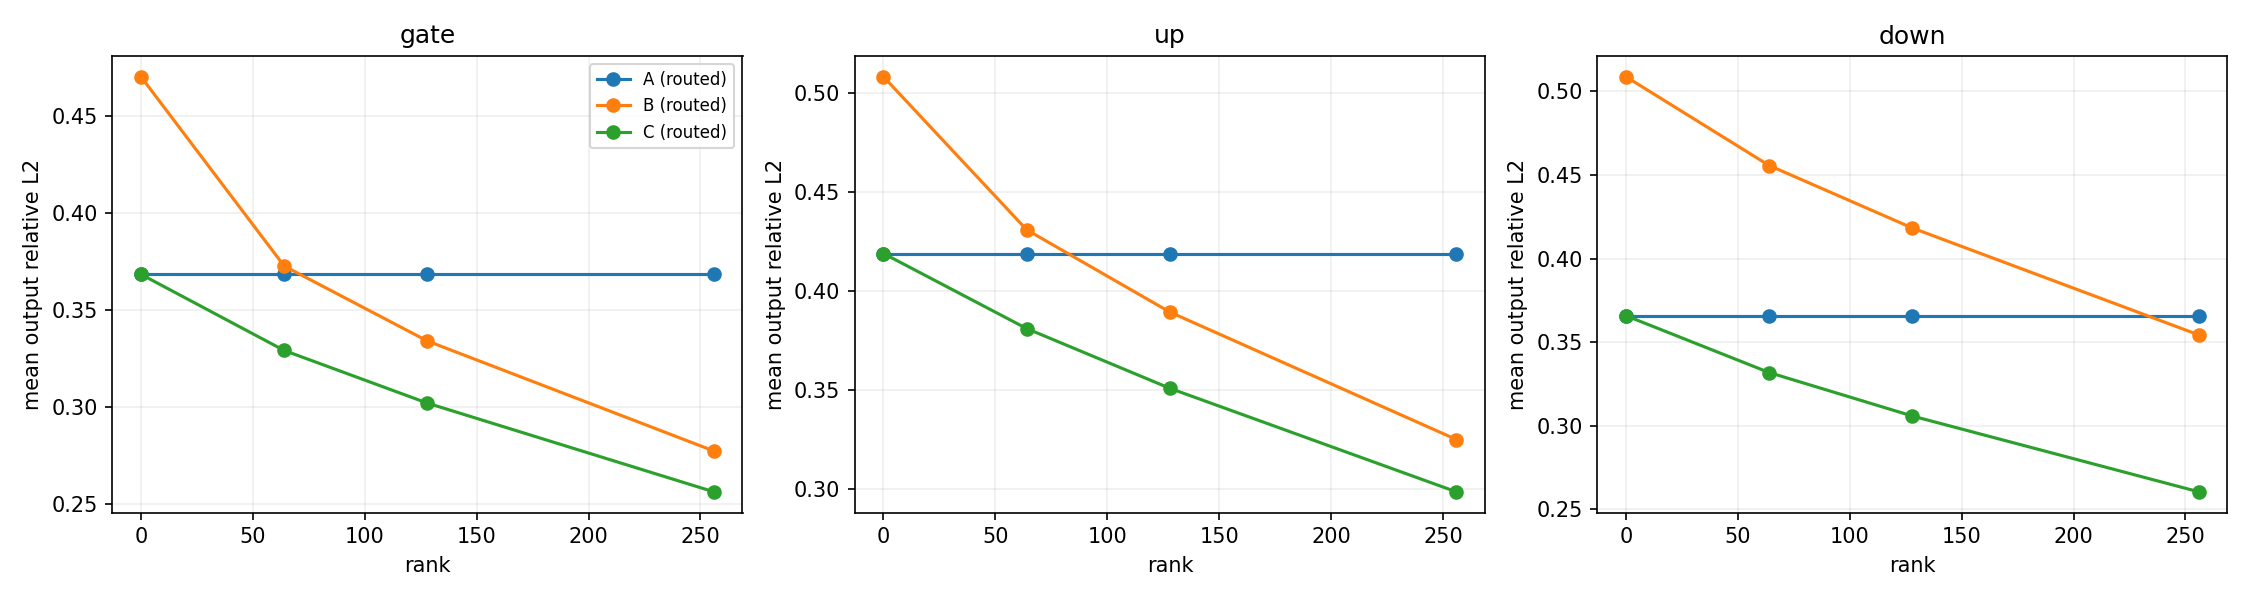
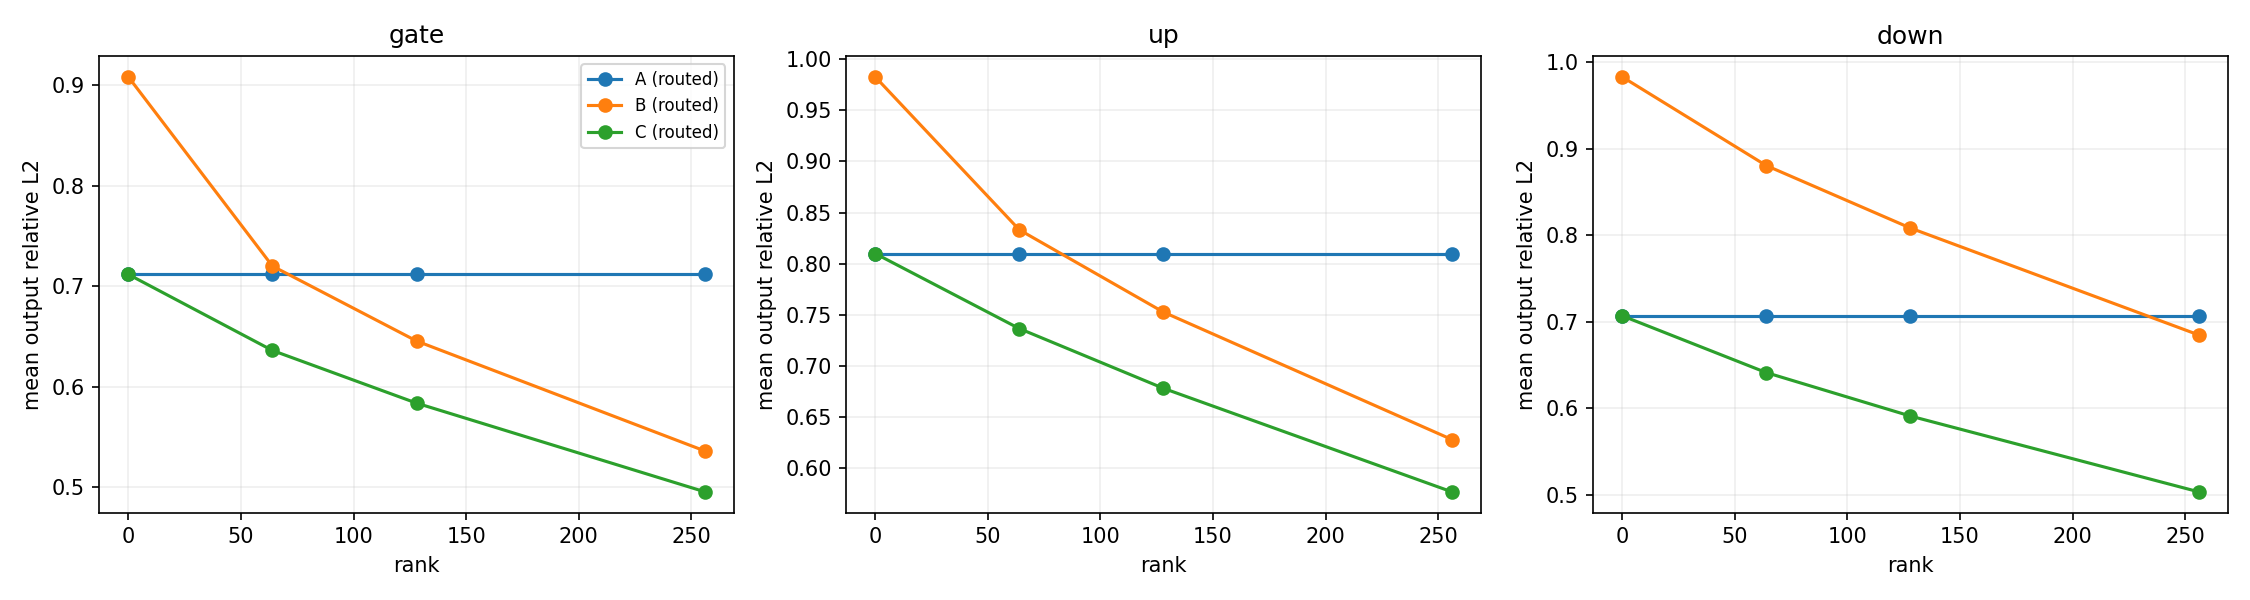
Exclude singleton experts from residual summaries

diff --git a/scripts/QJL/run_shared_lowrank_qjl.py b/scripts/QJL/run_shared_lowrank_qjl.py
@@ -571,7 +571,10 @@ def _summaries(rows: list[dict]) -> list[dict]:
     for row in rows:
         buckets[(row["projection"], row["rank"], row["input_source"])].append(row)
     result = []
-    for (projection, rank, source), items in sorted(buckets.items()):
+    for (projection, rank, source), all_items in sorted(buckets.items()):
+        items = [row for row in all_items if not row["singleton"]]
+        if not items:
+            continue
         w2 = sum(row["weight_squared_norm"] for row in items)
         r2 = sum(row["residual_squared_norm"] for row in items)
         e2 = sum(row["tail_squared_norm"] for row in items)
@@ -582,6 +585,7 @@ def _summaries(rows: list[dict]) -> list[dict]:
             means[f"case_{case}_mean_relative_l2"] = sum(values) / len(values) if values else None
         result.append({"projection": projection, "rank": rank,
                        "input_source": source, "expert_count": len(items),
+                       "excluded_singleton_count": len(all_items) - len(items),
                        "rho_r_over_w": math.sqrt(r2 / w2) if w2 else None,
                        "rho_e_over_w": math.sqrt(e2 / w2) if w2 else None,
                        "rho_e_over_r": math.sqrt(e2 / r2) if r2 else None,
@@ -592,7 +596,36 @@ def _summaries(rows: list[dict]) -> list[dict]:
                                             for row in items if row["oracle_eta_e"] is not None)
                                         / r2 if r2 else None),
                        **means})
+    if not result:
+        raise ValueError("no non-singleton experts available for residual summary")
     return result
+
+
+def resummarize_results(out: Path) -> dict:
+    """Rebuild aggregate diagnostics from saved per-expert rows without model inference."""
+    out = out.expanduser().resolve()
+    data = json.loads((out / "summary.json").read_text())
+    numeric = ("weight_squared_norm", "residual_squared_norm", "tail_squared_norm",
+               "oracle_eta_uv", "oracle_eta_e",
+               *(f"case_{case}_relative_l2" for case in CASES))
+    rows = []
+    with (out / "per_expert.csv").open(newline="") as handle:
+        for raw in csv.DictReader(handle):
+            row = {**raw, "rank": int(raw["rank"]),
+                   "singleton": raw["singleton"].lower() == "true"}
+            row.update({key: float(raw[key]) if raw[key] else None for key in numeric})
+            rows.append(row)
+    if not rows:
+        raise ValueError("per_expert.csv has no diagnostic rows")
+    summary = _summaries(rows)
+    data["config"]["summary_population"] = "non_singleton"
+    data["summary"] = summary
+    _write_csv(out / "summary.csv", summary)
+    (out / "summary.json").write_text(json.dumps(data, indent=2) + "\n")
+    (out / "REPORT.md").write_text(_report(
+        data["config"], summary, data["checkpoints"], data["skipped_ranks"]))
+    _plot(out, summary)
+    return data
 
 
 def _plot(out: Path, summaries: list[dict]) -> None:
@@ -654,13 +687,18 @@ def _report(config: dict, summaries: list[dict], checkpoints: list[dict],
              f"projections: {config['projections']}; ranks: {config['ranks']}; "
              f"QJL D={config['qjl_d']}.",
              f"Grouping source: {config['grouping_source']}.", "",
+             "Aggregated residual norms, energies, and output errors exclude singleton "
+             "experts (which retain their original BF16 weights and have zero residual). "
+             "The per-expert CSV retains them with `singleton=True` for auditability. "
+             "Norm ratios use sums of squared norms over non-singleton experts.", "",
              "## Output diagnostics", "",
-             "| Projection | Rank | Input | A relative L2 | B relative L2 | "
+             "| Projection | Rank | Input | Experts | A relative L2 | B relative L2 | "
              "C relative L2 | Tail / W |",
-             "|---|---:|---|---:|---:|---:|---:|"]
+             "|---|---:|---|---:|---:|---:|---:|---:|"]
     for row in summaries:
         fmt = lambda x: "n/a" if x is None else f"{x:.5f}"
         lines.append(f"| {row['projection']} | {row['rank']} | {row['input_source']} | "
+                     f"{row['expert_count']} | "
                      f"{fmt(row['case_A_mean_relative_l2'])} | "
                      f"{fmt(row['case_B_mean_relative_l2'])} | "
                      f"{fmt(row['case_C_mean_relative_l2'])} | "
@@ -817,6 +855,7 @@ def analyze_or_compress(args) -> dict:
               "qjl_d": args.qjl_d, "seed": args.seed, "num_groups": args.num_groups,
               "singleton_ratio": args.singleton_ratio, "backend": args.backend,
               "saliency_delta": args.saliency_delta, "mode": args.mode,
+              "summary_population": "non_singleton",
               "grouping_source": cache.get("metadata", {}).get(
                   "source", "supplied grouping cache; origin unspecified"),
               "grouping_cache": str(args.grouping_cache) if args.grouping_cache else
@@ -894,7 +933,7 @@ def evaluate(args) -> dict:
 
 def arguments(argv=None):
     parser = argparse.ArgumentParser(description=__doc__)
-    parser.add_argument("--mode", choices=("analyze", "compress", "eval"),
+    parser.add_argument("--mode", choices=("analyze", "compress", "eval", "summarize"),
                         required=True)
     parser.add_argument("--model-path", type=Path,
                         default=Path("/home/jaewoo/models/Qwen1.5-MoE-A2.7B-Chat"))
@@ -938,6 +977,8 @@ def main(argv=None):
     args = arguments(argv)
     if args.mode == "eval":
         evaluate(args)
+    elif args.mode == "summarize":
+        resummarize_results(args.output_dir)
     else:
         analyze_or_compress(args)
 

diff --git a/tests/test_shared_lowrank_qjl.py b/tests/test_shared_lowrank_qjl.py
@@ -17,7 +17,7 @@ import torch.nn.functional as F
 from safetensors.torch import save_file
 
 from scripts.QJL.run_shared_lowrank_qjl import (
-    C4_FILENAME, analyze_or_compress, arguments, ensure_c4,
+    C4_FILENAME, _summaries, analyze_or_compress, arguments, ensure_c4, main,
     groups_from_descriptors, groups_from_labels,
     install_checkpoint, output_metrics, rank_parts, routed_or_synthetic,
     saliency_average, svd_factors,
@@ -68,6 +68,27 @@ class ToyModel(nn.Module):
 
 
 class SharedLowrankQJLTests(unittest.TestCase):
+    def test_summary_excludes_singletons_from_norms_and_output_errors(self):
+        decomposed = {"projection": "gate", "rank": 0, "input_source": "routed",
+                      "singleton": False, "weight_squared_norm": 4.0,
+                      "residual_squared_norm": 1.0, "tail_squared_norm": 0.25,
+                      "oracle_eta_uv": 0.75, "oracle_eta_e": 0.25,
+                      "case_A_relative_l2": 0.1, "case_B_relative_l2": 0.2,
+                      "case_C_relative_l2": 0.3}
+        singleton = {**decomposed, "singleton": True,
+                     "weight_squared_norm": 100.0,
+                     "residual_squared_norm": 0.0, "tail_squared_norm": 0.0,
+                     "oracle_eta_uv": None, "oracle_eta_e": None,
+                     "case_A_relative_l2": 0.0, "case_B_relative_l2": 0.0,
+                     "case_C_relative_l2": 0.0}
+        summary, = _summaries([decomposed, singleton])
+        self.assertEqual(summary["expert_count"], 1)
+        self.assertEqual(summary["excluded_singleton_count"], 1)
+        self.assertAlmostEqual(summary["rho_r_over_w"], 0.5)
+        self.assertAlmostEqual(summary["rho_e_over_w"], 0.25)
+        self.assertAlmostEqual(summary["rho_e_over_r"], 0.5)
+        self.assertAlmostEqual(summary["case_A_mean_relative_l2"], 0.1)
+
     def test_c4_download_verify_and_reuse(self):
         with tempfile.TemporaryDirectory() as directory:
             root = Path(directory)
@@ -212,9 +233,15 @@ class SharedLowrankQJLTests(unittest.TestCase):
                               "--ranks", "0,1", "--qjl-d", "16",
                               "--backend", "reference", "--device", "cpu",
                               "--output-dir", str(out)])
-            analyze_or_compress(args)
+            result = analyze_or_compress(args)
             self.assertFalse((out / "checkpoints").exists())
             self.assertTrue((out / "summary.json").is_file())
+            self.assertTrue(all(row["expert_count"] == 2 and
+                                row["excluded_singleton_count"] == 1
+                                for row in result["summary"]))
+            main(["--mode", "summarize", "--output-dir", str(out)])
+            self.assertEqual(json.loads((out / "summary.json").read_text())["summary"],
+                             result["summary"])
 
     def test_separate_rescode_group_and_saliency_files(self):
         with tempfile.TemporaryDirectory() as directory:

diff --git a/results/shared_lowrank_qjl/full/analysis/REPORT.md b/results/shared_lowrank_qjl/full/analysis/REPORT.md
@@ -2,25 +2,27 @@
 
 A uses QJL(R); B uses stored BF16 low-rank factors; C adds QJL(E) to those same factors. R and E are FP32 weight residuals. Output error is measured on the same input within each row.
 
-Layers: [0, 1, 2, 3, 4, 5, 6, 7, 8, 9, 10, 11, 12, 13, 14, 15, 16, 17, 18, 19, 20, 21, 22, 23]; expert IDs: [0, 1, 2, 3, 4, 5, 6, 7, 8, 9, 10, 11, 12, 13, 14, 15, 16, 17, 18, 19, 20, 21, 22, 23, 24, 25, 26, 27, 28, 29, 30, 31, 32, 33, 34, 35, 36, 37, 38, 39, 40, 41, 42, 43, 44, 45, 46, 47, 48, 49, 50, 51, 52, 53, 54, 55, 56, 57, 58, 59]; projections: ('gate', 'up', 'down'); ranks: [0, 64, 128, 256]; QJL D=4096.
+Layers: [0, 1, 2, 3, 4, 5, 6, 7, 8, 9, 10, 11, 12, 13, 14, 15, 16, 17, 18, 19, 20, 21, 22, 23]; expert IDs: [0, 1, 2, 3, 4, 5, 6, 7, 8, 9, 10, 11, 12, 13, 14, 15, 16, 17, 18, 19, 20, 21, 22, 23, 24, 25, 26, 27, 28, 29, 30, 31, 32, 33, 34, 35, 36, 37, 38, 39, 40, 41, 42, 43, 44, 45, 46, 47, 48, 49, 50, 51, 52, 53, 54, 55, 56, 57, 58, 59]; projections: ['gate', 'up', 'down']; ranks: [0, 64, 128, 256]; QJL D=4096.
 Grouping source: ResCode expert-output descriptors and saliency.
+
+Aggregated residual norms, energies, and output errors exclude singleton experts (which retain their original BF16 weights and have zero residual). The per-expert CSV retains them with `singleton=True` for auditability. Norm ratios use sums of squared norms over non-singleton experts.
 
 ## Output diagnostics
 
-| Projection | Rank | Input | A relative L2 | B relative L2 | C relative L2 | Tail / W |
-|---|---:|---|---:|---:|---:|---:|
-| down | 0 | routed | 0.36579 | 0.50871 | 0.36579 | 0.70658 |
-| down | 64 | routed | 0.36579 | 0.45561 | 0.33179 | 0.64124 |
-| down | 128 | routed | 0.36579 | 0.41823 | 0.30578 | 0.59096 |
-| down | 256 | routed | 0.36579 | 0.35429 | 0.26045 | 0.50346 |
-| gate | 0 | routed | 0.36834 | 0.47012 | 0.36834 | 0.70611 |
-| gate | 64 | routed | 0.36834 | 0.37261 | 0.32914 | 0.63031 |
-| gate | 128 | routed | 0.36834 | 0.33400 | 0.30201 | 0.57844 |
-| gate | 256 | routed | 0.36834 | 0.27736 | 0.25632 | 0.49080 |
-| up | 0 | routed | 0.41902 | 0.50841 | 0.41902 | 0.70668 |
-| up | 64 | routed | 0.41902 | 0.43101 | 0.38106 | 0.64240 |
-| up | 128 | routed | 0.41902 | 0.38938 | 0.35084 | 0.59153 |
-| up | 256 | routed | 0.41902 | 0.32496 | 0.29849 | 0.50341 |
+| Projection | Rank | Input | Experts | A relative L2 | B relative L2 | C relative L2 | Tail / W |
+|---|---:|---|---:|---:|---:|---:|---:|
+| down | 0 | routed | 745 | 0.70702 | 0.98327 | 0.70702 | 0.98418 |
+| down | 64 | routed | 745 | 0.70702 | 0.88065 | 0.64130 | 0.89317 |
+| down | 128 | routed | 745 | 0.70702 | 0.80839 | 0.59104 | 0.82313 |
+| down | 256 | routed | 745 | 0.70702 | 0.68481 | 0.50342 | 0.70125 |
+| gate | 0 | routed | 745 | 0.71196 | 0.90868 | 0.71196 | 0.98286 |
+| gate | 64 | routed | 745 | 0.71196 | 0.72021 | 0.63618 | 0.87736 |
+| gate | 128 | routed | 745 | 0.71196 | 0.64558 | 0.58374 | 0.80516 |
+| gate | 256 | routed | 745 | 0.71196 | 0.53610 | 0.49545 | 0.68317 |
+| up | 0 | routed | 745 | 0.80992 | 0.98270 | 0.80992 | 0.98417 |
+| up | 64 | routed | 745 | 0.80992 | 0.83309 | 0.73654 | 0.89465 |
+| up | 128 | routed | 745 | 0.80992 | 0.75262 | 0.67813 | 0.82381 |
+| up | 256 | routed | 745 | 0.80992 | 0.62811 | 0.57696 | 0.70108 |
 
 ## Checkpoint storage
 
